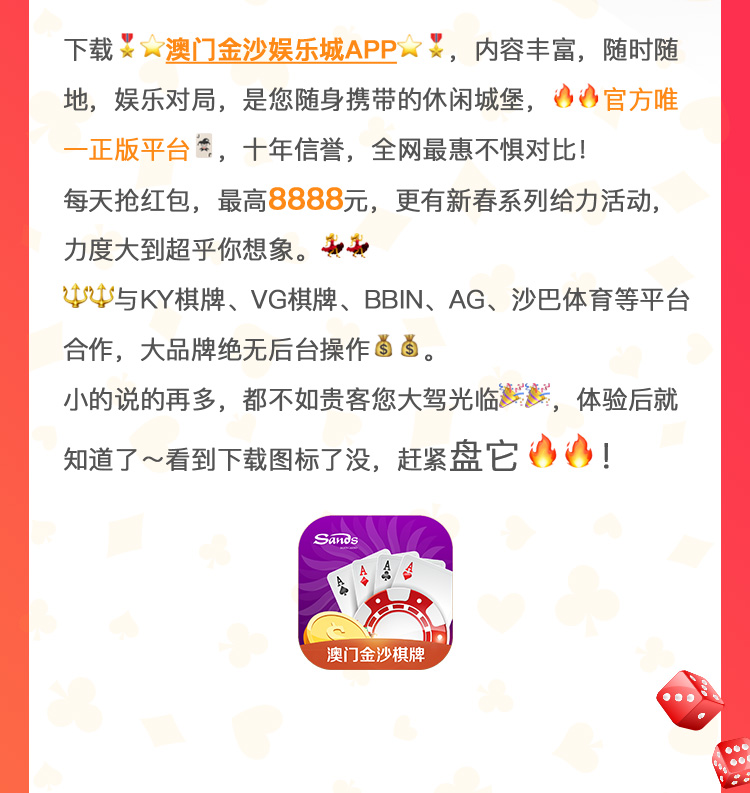
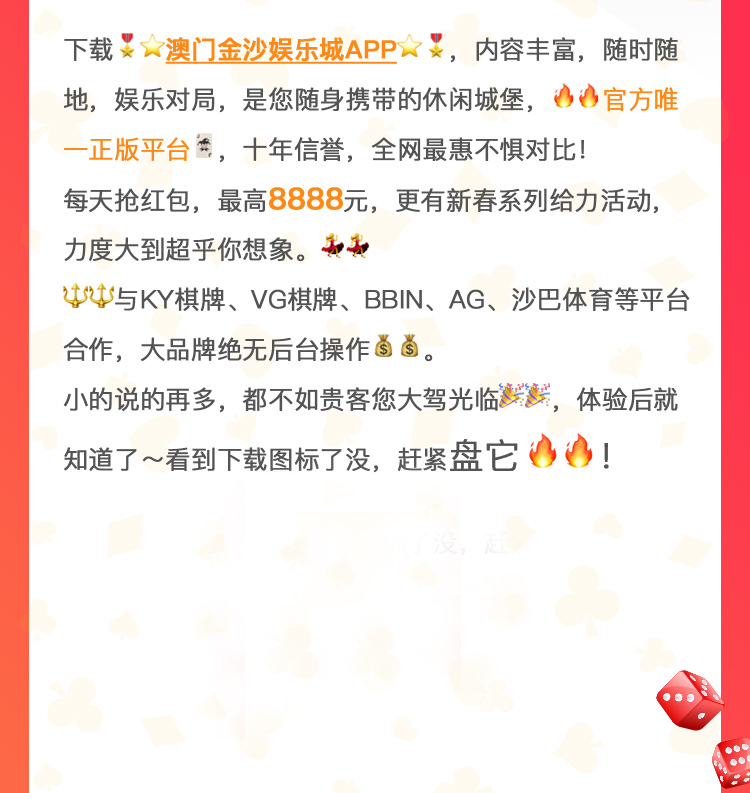
Add files via upload

Changed region(s): [[0.3987, 0.6356, 0.6133, 0.8474]]

diff --git a/index.html b/index.html
@@ -5,7 +5,7 @@
 		<meta name="viewport" content="initial-scale=1, maximum-scale=1, minimum-scale=1, user-scalable=no">
 		<title>注册</title>
 		<link rel="stylesheet" href="css/reset.css" />
-		<link rel="stylesheet" href="css/main.css" />
+		<link rel="stylesheet" href="css/main.css?v=1" />
 		<script type="text/javascript" src="js/flexible/flexible.js"></script>
 	</head>
 	<body>
@@ -15,7 +15,10 @@
 		    </a>
 		</div>
 		<div class="img-contain">
-            <img src="images/02.jpg" />
+            <img src="images/02.jpg?v=1" />
+            <a class="img-contain-logo" href="http://www.lasi555.com">
+                <img src="images/logo.jpg" />
+            </a>
             <a class="img-contain-android" href="https://lasi555.com/downLoad/downLoad.html?userAgent=android&v=1547750371752">
                 <img src="images/btn03.png" />
             </a>

diff --git a/css/main.css b/css/main.css
@@ -22,3 +22,12 @@
     width: 2.16rem;
     height: 0.69rem;
 }
+.img-contain-logo{
+	display: block;
+    position: absolute;
+    left: 50%;
+    margin-left: -0.78rem;
+    bottom: 1.2rem;
+    width: 1.56rem;
+    height: 1.59rem;
+}
